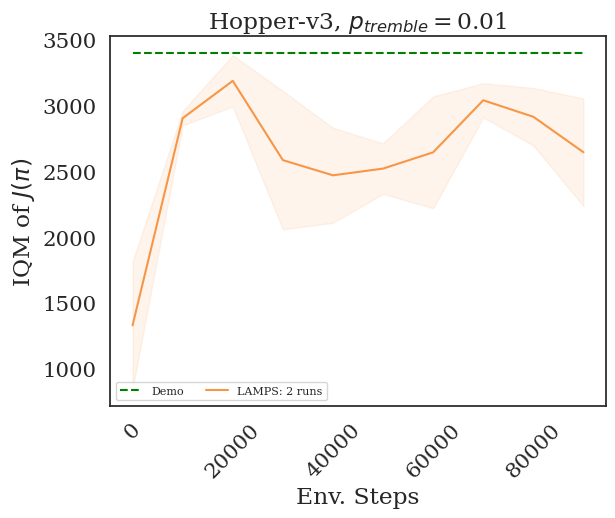
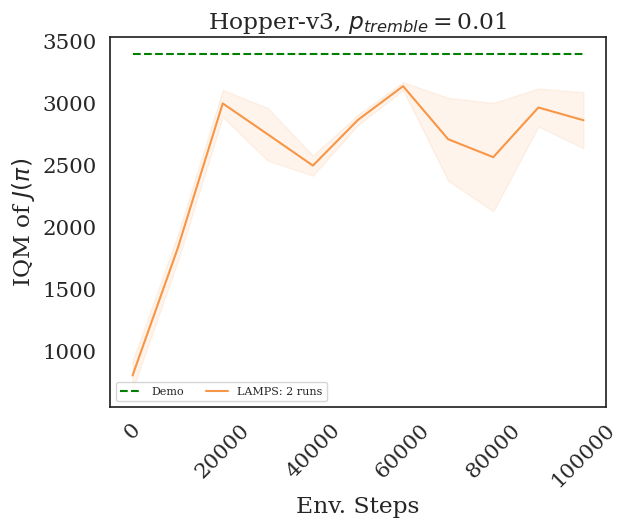
wip

diff --git a/MujocoSysID/generate_plots.py b/MujocoSysID/generate_plots.py
@@ -50,7 +50,7 @@ def calc_iqm(data):
     return iqm_scores
 
 
-def main(env_abbrv, env_name):
+def main(env_abbrv, env_name, steps=15):
     csv_results_dir = Path("csv_results", env_name)
     algs_to_colors = {
         "exp": "green",
@@ -90,7 +90,7 @@ def main(env_abbrv, env_name):
     # steps = 100
     # sz = 1000
 
-    steps = 10
+    # steps = 10
     sz = 10_000
     for alg in algs_to_colors.keys():
         if alg == "exp":
@@ -163,6 +163,7 @@ if __name__ == "__main__":
         choices=["ant", "hc", "hop", "hum", "walk"],
         help="Name of the environment",
     )
+    parser.add_argument("-s", "--steps", type=int, help="Number of steps", default=15)
     args = parser.parse_args()
 
     env_abbr = args.env_name
@@ -178,4 +179,4 @@ if __name__ == "__main__":
         env_name = "Walker2d-v3"
     if "truncated" not in env_name:
         env_name = f"gym___{env_name}"
-    main(env_abbr, env_name)
+    main(env_abbr, env_name, steps=args.steps)
